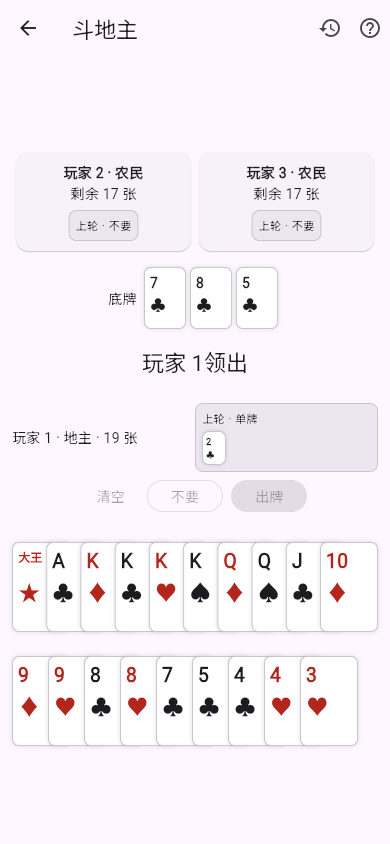
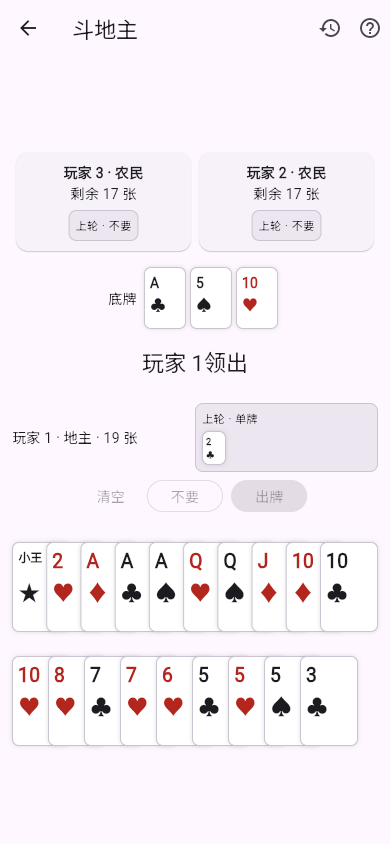
fix(doudizhu): rotate seats counterclockwise for every player

diff --git a/test/doudizhu/ui_test.dart b/test/doudizhu/ui_test.dart
@@ -17,6 +17,85 @@ import 'package:easyplay/doudizhu/multiplayer/card_room_coordinator.dart';
 import 'test_support.dart';
 
 void main() {
+  for (final (size, direction) in [
+    (const Size(390, 844), TextDirection.ltr),
+    (const Size(844, 390), TextDirection.rtl),
+  ]) {
+    testWidgets('hotseat turns counterclockwise at $size in $direction', (
+      tester,
+    ) async {
+      tester.view.physicalSize = size;
+      tester.view.devicePixelRatio = 1;
+      addTearDown(tester.view.resetPhysicalSize);
+      addTearDown(tester.view.resetDevicePixelRatio);
+      final controller = DouDizhuMatchController.hotseat();
+      addTearDown(controller.dispose);
+      await tester.pumpWidget(
+        MaterialApp(
+          home: Directionality(
+            textDirection: direction,
+            child: DouDizhuGamePage(controller: controller),
+          ),
+        ),
+      );
+
+      void expectSeats(PlayerSeat own) {
+        final (left, right) = switch (own) {
+          PlayerSeat.seat0 => (PlayerSeat.seat2, PlayerSeat.seat1),
+          PlayerSeat.seat1 => (PlayerSeat.seat0, PlayerSeat.seat2),
+          PlayerSeat.seat2 => (PlayerSeat.seat1, PlayerSeat.seat0),
+        };
+        Offset position(PlayerSeat seat) => tester.getCenter(
+          find.byKey(ValueKey('doudizhu-player-${seat.index}')),
+        );
+        final bottom = controller.covered
+            ? tester.getCenter(find.text('请把设备交给${own.label}'))
+            : position(own);
+        expect(position(left).dx, lessThan(position(right).dx));
+        expect(position(left).dy, lessThan(bottom.dy));
+        expect(position(right).dy, lessThan(bottom.dy));
+        expect(controller.state!.turn, own);
+        expect(tester.takeException(), isNull);
+      }
+
+      Future<void> reveal(PlayerSeat own) async {
+        expectSeats(own);
+        expect(find.byType(DouDizhuHand), findsNothing);
+        controller.reveal();
+        await tester.pump();
+        expectSeats(own);
+        expect(controller.view!.seat, own);
+        expect(find.byType(DouDizhuHand), findsOneWidget);
+      }
+
+      // Bidding visits bottom -> right -> left, including the seat-2 wrap.
+      for (final seat in PlayerSeat.values) {
+        await reveal(seat);
+        controller.act('bid', {'score': seat == PlayerSeat.seat2 ? 3 : 0});
+        await tester.pump();
+      }
+      expect(controller.state!.landlord, PlayerSeat.seat2);
+      for (final seat in [
+        PlayerSeat.seat2,
+        PlayerSeat.seat0,
+        PlayerSeat.seat1,
+      ]) {
+        await reveal(seat);
+        if (seat == PlayerSeat.seat2) {
+          controller.act('play', {
+            'cards': [controller.view!.hand.first],
+          });
+        } else {
+          controller.act('pass');
+        }
+        await tester.pump();
+      }
+      await reveal(PlayerSeat.seat2);
+      expect(find.text('提示'), findsNothing);
+      await tester.pumpWidget(const SizedBox());
+    });
+  }
+
   testWidgets('AI fallback is visible and retry keeps hotseat hands covered', (
     tester,
   ) async {

diff --git a/lib/doudizhu/widgets/doudizhu_game_page.dart b/lib/doudizhu/widgets/doudizhu_game_page.dart
@@ -171,7 +171,7 @@ class _DouDizhuGamePageState extends State<DouDizhuGamePage> {
                 title: const Text('经典三人斗地主'),
                 content: const SingleChildScrollView(
                   child: Text(
-                    '54 张牌，每人 17 张，地主取得 3 张底牌并先出。按顺序叫 1–3 分，必须超过当前最高分；全员不叫重新发牌。\n\n'
+                    '54 张牌，每人 17 张，地主取得 3 张底牌并先出。叫分和出牌均逆时针轮转：自己 → 右侧下家 → 左侧上家。叫 1–3 分，必须超过当前最高分；全员不叫重新发牌。\n\n'
                     '地主出完则地主胜，任意农民出完则两名农民共同获胜。领出不能不要，连续两人不要后由上一出牌者重新领出。\n\n'
                     '顺子、连对和飞机主体不能包含 2 或王。飞机单翅膀须为不同点数且不能同时带双王；对翅膀须为不同点数的对子。四带二单可带一对，不能带双王；四带两对须为两个不同点数的对子。炸弹压普通牌，王炸最大。\n\n'
                     '熟人房间依赖房主可信；房主保留完整发牌状态，其他玩家仅接收自己的牌。结束后不保存历史牌谱。',
@@ -203,10 +203,11 @@ class _DouDizhuGamePageState extends State<DouDizhuGamePage> {
                       mainAxisAlignment: MainAxisAlignment.spaceBetween,
                       children: [
                         Row(
+                          // Keep the next player on the physical right so
+                          // turns run counterclockwise from every seat.
+                          textDirection: TextDirection.ltr,
                           children: [
-                            for (final other in PlayerSeat.values.where(
-                              (s) => s != seat,
-                            ))
+                            for (final other in [seat.previous, seat.next])
                               Expanded(child: _player(state, other, round)),
                           ],
                         ),

diff --git a/lib/doudizhu/doudizhu_model.dart b/lib/doudizhu/doudizhu_model.dart
@@ -6,6 +6,7 @@ enum PlayerSeat {
   seat2;
 
   PlayerSeat get next => values[(index + 1) % 3];
+  PlayerSeat get previous => values[(index + 2) % 3];
   String get label => '玩家 ${index + 1}';
 }
 

diff --git a/docs/DOUDIZHU.md b/docs/DOUDIZHU.md
@@ -13,6 +13,8 @@
 
 三人房间必须全部准备后由房主开始。房主可把空座位设为 AI，支持两名真人加一名 AI；已被真人占用的座位不会被 AI 取代。单人、同机与网络对局均可结束后再来一局；网络再来一局需要所有真人确认。
 
+牌桌始终以自己的座位在下方、上家在左侧、下家在右侧显示，叫分和出牌按「自己 → 右侧下家 → 左侧上家」逆时针轮转。同机交接时随当前玩家调整视角，联机时每位玩家都以自己的座位为基准。
+
 手机窄屏的手牌分两行重叠排列；点击或横向拖动选择，选牌上抬，使用「清空」撤销选择。「提示」仅在跟牌时显示，按自己的手牌与公开牌局推荐，选择后还需按「出牌」；领出时自行选牌。
 
 出过的牌缩小显示在各玩家旁边，同轮内保留各自最近一次出牌，被压过也不会立即消失；「不要」另行标注并保留该玩家已出的牌。连续两人不要后标为「上轮」，直到下一次实际领出才清空并开始新一轮。显示只依赖公开记录，遮挡交接仍可查看，联机重连后自动恢复；旧版房主未提供记录时仅显示当前可知的出牌。
@@ -31,7 +33,7 @@ AlphaDou 尚未接入，历史评估见 [AlphaDou 接入评估](ALPHADOU.md)。
 
 ## 固定规则
 
-一副 54 张牌，每人 17 张，3 张底牌在叫分结束前保密。按座位顺序叫 1、2、3 分或不叫，非零叫分必须高于当前最高分。叫 3 分立即成为地主；全部不叫则重新洗牌，保留房间身份并轮换首叫座位。
+一副 54 张牌，每人 17 张，3 张底牌在叫分结束前保密。按逆时针座位顺序叫 1、2、3 分或不叫，非零叫分必须高于当前最高分。叫 3 分立即成为地主；全部不叫则重新洗牌，保留房间身份并轮换首叫座位。
 
 地主取得公开底牌，持有 20 张并先出。地主先出完则地主胜；任意农民先出完则两位农民共同获胜。领出时不能不要；连续两人不要后，上一位出牌者重新领出。
 
